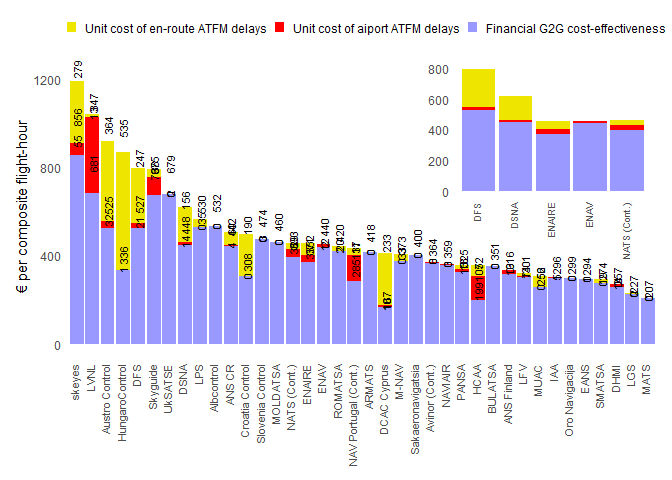
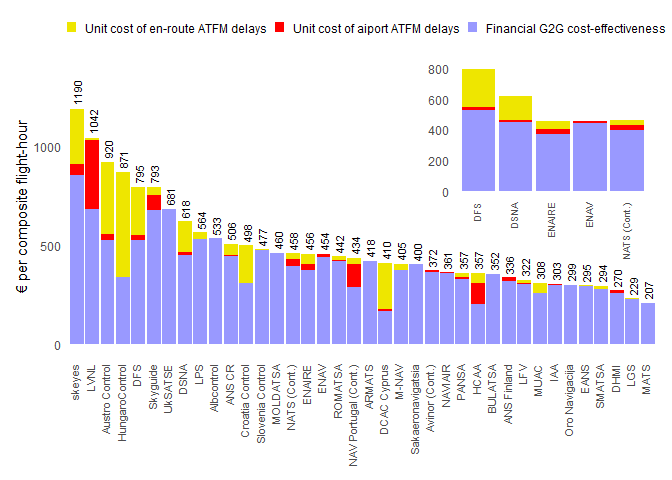
added graph labels

Changed region(s): [[0.0312, 0.125, 1.0, 0.6562], [0.5625, 0.5938, 0.5938, 0.6562], [0.0625, 0.5, 0.0938, 0.5625]]

diff --git a/JC_data_plot.md b/JC_data_plot.md
@@ -99,15 +99,24 @@ Working now with tidy data
 
 ``` r
 # We plot now the tidy data
+# But first we create an additional column with the label for the graph
+tmp <- tmp %>% group_by(ANSP_NAME) %>% mutate(graph_label = sum(value))
+mylabels <- tmp %>% group_by(ANSP_NAME) %>% summarise(graph_label=round(sum(value), digits=0))
+  # turns out the sorting below is not needed
+# mylabels <- mylabels %>% arrange(-graph_label)
+
 vis1 <- tmp %>%
   ggplot()+
+
+# resetting the y axis limit so the label is not out of range
+  coord_cartesian(ylim=c(0,max(mylabels$graph_label)+200))+
 
 # note the refactoring of the TYPE to change the ordering in the stacked bar
   aes(x=reorder(ANSP_NAME, -value), y = value, fill = factor(TYPE,levels=c("UC_ER_DLY", "UC_APT_DLY", "FIN_CEF")))+
   geom_col()+
-
-# Trying to add labels to the bars
-  geom_text(size=3, aes(label = round(value, digits = 0)), angle = 90, position = position_stack(vjust = 1.2))+
+  
+# Add labels to the bars
+  geom_text(data=mylabels, size=3, aes(x=ANSP_NAME, y=graph_label, label = graph_label, angle = 90, hjust=-0.2), inherit.aes = FALSE)+
 
 # This line changes the colour of the bars  and the labels of the legend
   scale_fill_manual(values = c("#eee600", "#ff0000", "#9999ff"), labels = c("Unit cost of en-route ATFM delays", "Unit cost of aiport ATFM delays", "Financial G2G cost-effectiveness"))+
@@ -120,7 +129,8 @@ vis1 <- tmp %>%
   theme(legend.position="top", legend.title = element_blank(), legend.key.size = unit(0.3,"cm"))+
   theme(panel.grid.major = element_blank(), panel.grid.minor = element_blank())+
   labs(x=NULL, y="€ per composite flight-hour")
-##vis1
+
+# vis1
 ##vis1 + vis1
 ##vis1 / vis1
 ```
